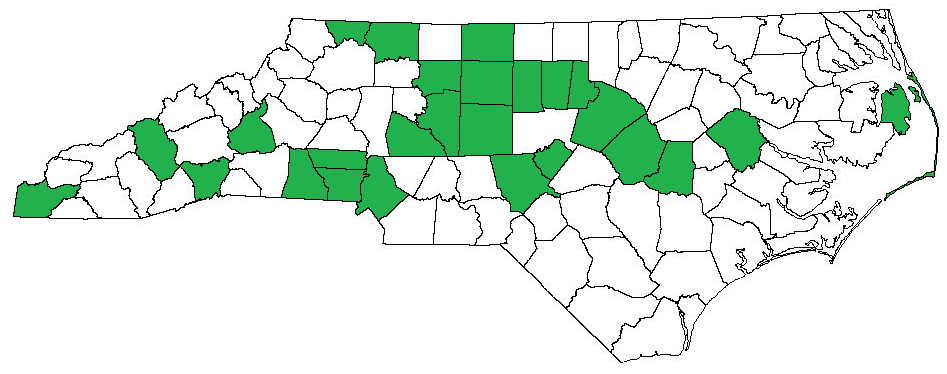
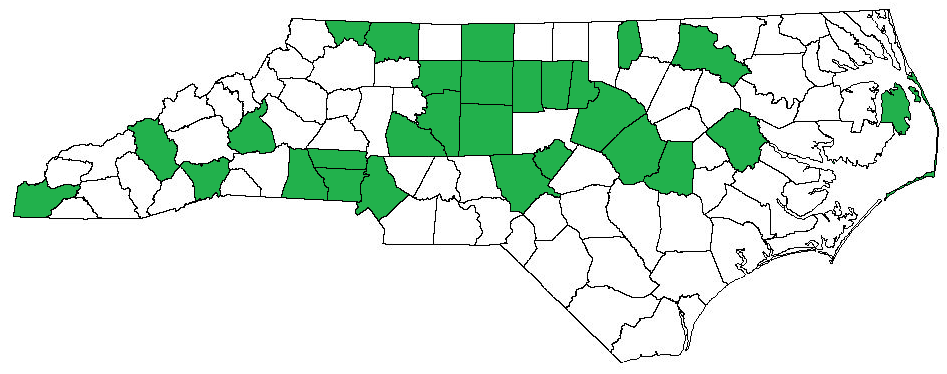
BBQ / Hiking (Medoc)

Changed region(s): [[0.6431, 0.0588, 0.7962, 0.2353]]

diff --git a/bbq/index.html b/bbq/index.html
@@ -39,6 +39,8 @@ Both use vinegar as their base for the sauce, often with red pepper (among other
 
 <p>Now, to get back to my mission!  Eating 'cue in every county in North Carolina is, naturally, easier said than done.  To start with, I decided to see just how many eateries I had been to before, and then went about finding a shack to eat at in every county.  I had the benefit of having done (most of) the <a href="http://www.ncbbqsociety.com/bbqtrail.html">NC Barbecue Society's Historic Barbecue Trail</a> with friends in December 2019, in addition to several stops on other trips.  Before even consciously attempting this goal, I had checked off 24 of the counties on the list while eating at at least 36 different joints -- some of them twice or more.  Without further ado, here's my list of BBQ joints visited by county, along with the date(s) I've visited them.</p>
 
+<p>As a general rule, I try to eat as much to avoid chains; that includes local ones.  While Smithfield's Chicken &amp Bar-B-Q is local to eastern North Carolina, I would much rather support a small business than a franchised restaurant with nearly 40 locations.  Abrams Bar-B-Q seven eastern-NC locations are, for some reason, slightly more honorable (in my mind), and the Virginia-based Golden Skillet, which has three locations in North Carolina (in addition to six in Virginia) slightly moreso, however, they are still primarily last-resort locations, to be used only in the event that a) no other 'cue is available in the county, or b) we have an unexpected change in plans.</p>
+
 <p>On this list, you'll see two certifications, <i>italicized</i> and colored <span class="ncbsbbq">blue</span> to help distinguish them from the other stops.  The <a href="http://www.ncbbqsociety.com/bbqtrail.html">NCBS BBQ Trail</a>, the more prestigious of the two, is a list created by the North Carolina Barbecue Society to help identify important and emblematic restaurants across the state.  Pits were chosen because they were "representatives of the distinctive methods and barbecue cooking styles that have made North Carolina the Barbecue Capital of the World."  In addition to cooking their meat only on wood or coal, other requirements for inclusion are that the pit make their own sauce, operate for 12 or more years, and have a sit-down dining area.  The other certification is the <a href="http://www.truecue.org/true-cue-nc">True 'Cue NC</a> certification, which has largely similar requirements, but is less selective and more wholistic in its approach.  You'll notice that several pits cary both honors.</p>
 
 <p>I've also made a map to visually keep track of the stops I've made.</p>
@@ -50,9 +52,9 @@ Both use vinegar as their base for the sauce, often with red pepper (among other
 <br>
 <center>
 	<h2>Current County Counter</h2>
-	<h3><span style="color:red">26</span> / 100</h3>
-	<h3>39 different in-state BBQ huts</h3>
-	<p>(last updated 1/9/2022)</p>
+	<h3><span style="color:red">28</span> / 100</h3>
+	<h3>41 different in-state BBQ joints</h3>
+	<p>(last updated 1/23/2022)</p>
 </center>
 <br>
 
@@ -111,6 +113,11 @@ Both use vinegar as their base for the sauce, often with red pepper (among other
 <ul>
 	<li>Kepley's BBQ - High Point - 10/15/2021</li>
 	<li>Stamey's BBQ - Greensboro (Gate City Blvd location) - 12/13/2019, 3/6/2020, 3/11/2020, 8/22/2020, and 3/5/2021 - <i><span class="ncbsbbq">NCBS BBQ Trail</span></i>; <i><span class="ncbsbbq">True 'Cue NC</span></i></li>
+</ul>
+<br>
+<p><b>Halifax County</b></p>
+<ul>
+	<li>Ralph's Barbecue - Weldon - 1/23/2022</li>
 </ul>
 <br>
 <p><b>Haywood County</b></p>
@@ -185,6 +192,11 @@ Both use vinegar as their base for the sauce, often with red pepper (among other
 <p><b>Surry County</b></p>
 <ul>
 	<li>Little Richard's BBQ - Mt. Airy - 1/31/2021</li>
+</ul>
+<br>
+<p><b>Vance County</b></p>
+<ul>
+	<li>Golden Skillet - Henderson - 1/23/2022</li>
 </ul>
 <br>
 <p><b>Wake County</b></p>
@@ -278,9 +290,18 @@ Both use vinegar as their base for the sauce, often with red pepper (among other
 
 <p>Originally I had intended to stop on my second day of traveling in Brent, Alabama, at The Sawmeal Restaurant, a cute restaurant which claimed to have Eastern NC style barbecue -- I wanted to see how genuine it was.  However, I mistakenly had ordered a massive tray of food at Brasstown Creek; that, combined with my hearty consumption of peanuts, meant I had more than enough food as it was.  Instead, I polished off the leftovers for the remainder of my trip, in addition to all the food the kind Starkville family whose tailgate I crashed I could stomach.</p>
 
+<p>My first major trip of January 2022 was a trip ostensibly to Medoc Mountain State Park, where we hiked the <a href="../hiking/medoc-mountain/summit-loop/summit-loop.html">Summit Loop Trail</a> in the snow.  This trip featured a good bit of pivoting: our original plan had been to drive up NC 43/561 to the edge of the Halifax County line to Hollister, home of Lynch's Bar-B-Q, after a stop at <a href="../hiking/non-parks/weldon/weldon.html#portis">Portis Gold Mine</a>.  The state's only public gold mine, we didn't know that at the time, and instead talked with the site manager and his friendly Cane Corso hound (variously referred to as Titan or Monkey-Butt) about the history of the site and its recent opening.  Unfortunately, however, Lynch's was unexpectedly closed for the day, probably because of the recent snow.  Instead, we pivoted, and went to the the other edge of the county, to <a href="../hiking/non-parks/weldon/weldon.html#weldon">Weldon</a>, where we admired the massive rockfish monument and the story of local drunk and fisherman (in that order) of Jonathan Jackson, who claimed to have nearly caught a massive, 198" and 4,000 lb rockfish shortly before his death in 1904.</p>
+
+<p>After hiking in Medoc Mountain, we went back north, to Roanoke Rapids, where we walked a short section of the <a href="../hiking/non-parks/roanoke-rapids/canal-trail.html">Roanoke Rapids Canal Trail</a> and admired the ruins of the Bulkhead Overlook.  After walking til shortly before sunset, we headed west, for Littleton and the other edge of Halifax County.  We had originally planned to eat at Grandpa's Kitchen, however we were struck by a second unexpected closure, and forced to pivot again.  We decided to take US 1/US 1-Bypass back, and headed through Vance County and Henderson, where we stopped at one of three locations of the Golden Skillet.  While their barbecue was not bad by any means, the real breadwinner of the meal was the potato salad and the corn pudding.  And just like that, through pure happenstance, I had knocked out two counties in one day.</p>
+
+
+
+
+<!-- 
+
 <p>A final point of explanation lies in just how many times I've been to a select few restaurants.  The most obvious outlier is Stameys BBQ in Greensboro.  During my time at NC State, I was in both the marching band and the pep band, and traveled to several of the ACC tournaments for both men's and women's basketball.  It just so happened that nearly every year I was in band, one (or both) of the two tournaments were in Greensboro, in the Greensboro Colliseum.  Conveniently, Stameys is right across the street; it's almost too perfect to be a coincidence.</p>
 
-
+-->
 
 
 

diff --git a/hiking/medoc-mountain/summit-loop/summit-loop.html b/hiking/medoc-mountain/summit-loop/summit-loop.html
@@ -1,0 +1,29 @@
+<!DOCTYPE html>
+<html>
+
+
+<head>
+	<link href="../../style.css" rel="stylesheet" type="text/css" />
+	<link rel="icon" type="image/png" href="../../icon.png">
+	<title>Medoc Mountain State Park - Summit Loop</title>
+</head>
+
+<center>
+	<h2>Medoc Mountain State Park - Summit Loop</h2>
+</center>
+
+<p>I did this hike on Jnauary 23rd, 2022 with my brother, my girlfriend, and her sister.  We hiked it after an impressive but shortlived snow, leaving the roads easily driveable but adding a pretty dusting of snow over the whole park.</p>
+
+<p>The trail is a fairly east 3-mile loop located just past the park's visitors center.  After crossing the Little Fishing Creek, we headed northwest, getting the steep part of the hike over first and went basically straight to the summit.
+
+<center><image src="https://drive.google.com/uc?export=view&id=1VyoN3YEW5Vc7O27eMGGe_PJdmj8eaVUA" width="800"></img></center><br>
+<center><image src="https://drive.google.com/uc?export=view&id=1Kg-j7v7LzPxV91_b9HVzD0a-t8elTL63" width="800"></img></center><br>
+<center><image src="https://drive.google.com/uc?export=view&id=1J8AT5X24EdHk9AB6RnuIloN0afzImje2" width="800"></img></center><br>
+
+<p>From there, we began a gradual descent which lasted most of the rest of the trail.  After a short while, we came across the Vinson Cemetery, a family graveyard with only 8 graves, all dated before the 1920s.  From there, we hiked the rest of the way back, spending much of the remainder walking alongside the Little Fishing Creek.</p>
+
+<center><image src="https://drive.google.com/uc?export=view&id=1QDRbUSSI49s67HsPUl6sWVIvAEB6K1xV" width="800"></img></center><br>
+<center><image src="https://drive.google.com/uc?export=view&id=1-0FkgFVq1aj9xMkEtB1DABtOXb3M8cRx" width="800"></img></center><br>
+<center><image src="https://drive.google.com/uc?export=view&id=1PafJHbEiarZagvlo9miEcktqHGuKiC0_" width="800"></img></center><br>
+
+<p>A map of Meadoc Mountain can be seen <a href="https://files.nc.gov/ncparks/maps-and-brochures/medoc-mountain-state-park-map-2021.pdf">here</a>.</p>

diff --git a/hiking/non-parks/weldon/weldon.html b/hiking/non-parks/weldon/weldon.html
@@ -1,0 +1,31 @@
+<!DOCTYPE html>
+<html>
+
+
+<head>
+	<link href="../../style.css" rel="stylesheet" type="text/css" />
+	<link rel="icon" type="image/png" href="../../icon.png">
+	<title>Portis Gold Mine and Weldon Rockfish</title>
+</head>
+
+<center>
+	<h2>Portis Gold Mine and Weldon Rockfish</h2>
+</center>
+
+<p>I visited these monuments on Jaunary 23rd, 2022 with my brother, my girlfriend, and her sister.</p>
+
+<p><a id="portis"></p>
+<p>Portis Gold Mine is the only public gold mine in the state.  When we went there, we thought it would be less prospecting and more museum, so when we rolled down the snow-covered dirt driveway that January morning, I'm sure the site manager was just as surprised to see us as we were him as we were to see his massive but friendly Cane Corso hound.  He was kind enough to show us around the site and tell us a bit about their operations, history, and their future plans.</p>
+
+
+<center><image src="https://drive.google.com/uc?export=view&id=1ea3_br-1kMlBe8p2eN2S0xqjfKtbnExz" width="800"></img></center><br>
+
+
+<p><a id="weldon"></p>
+<p>Not long after that, we were in Weldon, where we read about the story of Jonathan Jackson, who claimed to have nearly caught a massive, 198" and 4,000 lb rockfish shortly before his death in 1904.</p>
+
+<center><image src="https://drive.google.com/uc?export=view&id=1ja2eoeBicZP0bE8ejTEJq3PLrklIYbPH" width="800"></img></center><br>
+<center><image src="https://drive.google.com/uc?export=view&id=1dBvdbsEzPPrrNVW6URIKH6qzmAa_TSW0" width="800"></img></center><br>
+<center><image src="https://drive.google.com/uc?export=view&id=1ZHF3HWFMMm_x0VIzZVMlj9ViyNyZ9n6Z" width="800"></img></center><br>
+
+</html>

diff --git a/hiking/non-parks/roanoke-rapids/canal-trail.html b/hiking/non-parks/roanoke-rapids/canal-trail.html
@@ -1,0 +1,23 @@
+<!DOCTYPE html>
+<html>
+
+
+<head>
+	<link href="../../style.css" rel="stylesheet" type="text/css" />
+	<link rel="icon" type="image/png" href="../../icon.png">
+	<title>Roanoke Rapids Canal Trail</title>
+</head>
+
+<center>
+	<h2>Roanoke Rapids Canal Trail</h2>
+</center>
+
+<p>I hiked a small portion of this trail on January 23rd, 2022 with my brother, my girlfriend and her sister.  We only hiked about 1 mile roundtrip, from the museum (which was closed for the day) to the ruins of an old hydroelectric bulkhead.  We caught the start of a pretty sunset through the powerlines on the way back.  There was also an adorable snowman someone else had made waiting for us at the bench of the bulkhead overlook.</p>
+
+<center><image src="https://drive.google.com/uc?export=view&id=1WNtkoqzkKBcA9fejYpRwTpjNFBhLQtSu" width="800"></img></center><br>
+<center><image src="https://drive.google.com/uc?export=view&id=1WJYPHdc0fAloy_h_0RmEUhV-qlg4BNoy" width="800"></img></center><br>
+<center><image src="https://drive.google.com/uc?export=view&id=1Ow6YNXY-FzFvPedzADwAK6cWW7vqmESL" width="800"></img></center><br>
+<center><image src="https://drive.google.com/uc?export=view&id=11xNGVvu_n01G07K9Ec8onHcIwGiFkKVy" width="800"></img></center><br>
+<center><image src="https://drive.google.com/uc?export=view&id=1kh_1L00EEIMl6mGAeJu8WYyQw9aEd0dK" width="800"></img></center><br>
+
+</html>

diff --git a/hiking/index.html b/hiking/index.html
@@ -101,6 +101,11 @@
 	<li><a href="green-river/little-bradley/little-bradley.html">Little Bradley Falls Trail</a></li>
 </ul>
 
+<h2>Medoc Mountain State Park</h2>
+<ul>
+	<li><a href="medoc-mountain\summit-loop\summit-loop.html">Summit Loop Trail</a></li>
+</ul>
+
 <h2>Morrow Mountain State Park</h2>
 <ul>
 	<li><a href="morrow-mountain\short-loop\short-loop.html">Short Loop</a> (Mountain Loop Trail)</li>
@@ -166,6 +171,8 @@
 	<li><a href="non-parks/driving/driving.html">Drives around NC</a></li>
 	<li><a href="non-parks/fort-monroe/fort-monroe.html">Fort Monroe (Virginia)</a></li>
 	<li><a href="non-parks/high-falls/high-falls.html">High Falls Dam</a></li>
+	<li><a href="non-parks/weldon/weldon.html">Portis Gold Mine and Weldon Rockfish</a></li>
+	<li><a href="non-parks/roanoke-rapids/canal-trail.html">Roanoke Rapids Canal Trail</a></li>
 	<li><a href="non-parks/shearon-harris-spillway/shearon-harris-spillway.html">Shearon Harris Spillway</a></li>
 	<li><a href="non-parks/waynesville/waynesville.html">Waynesville house</a></li>
 </ul>
